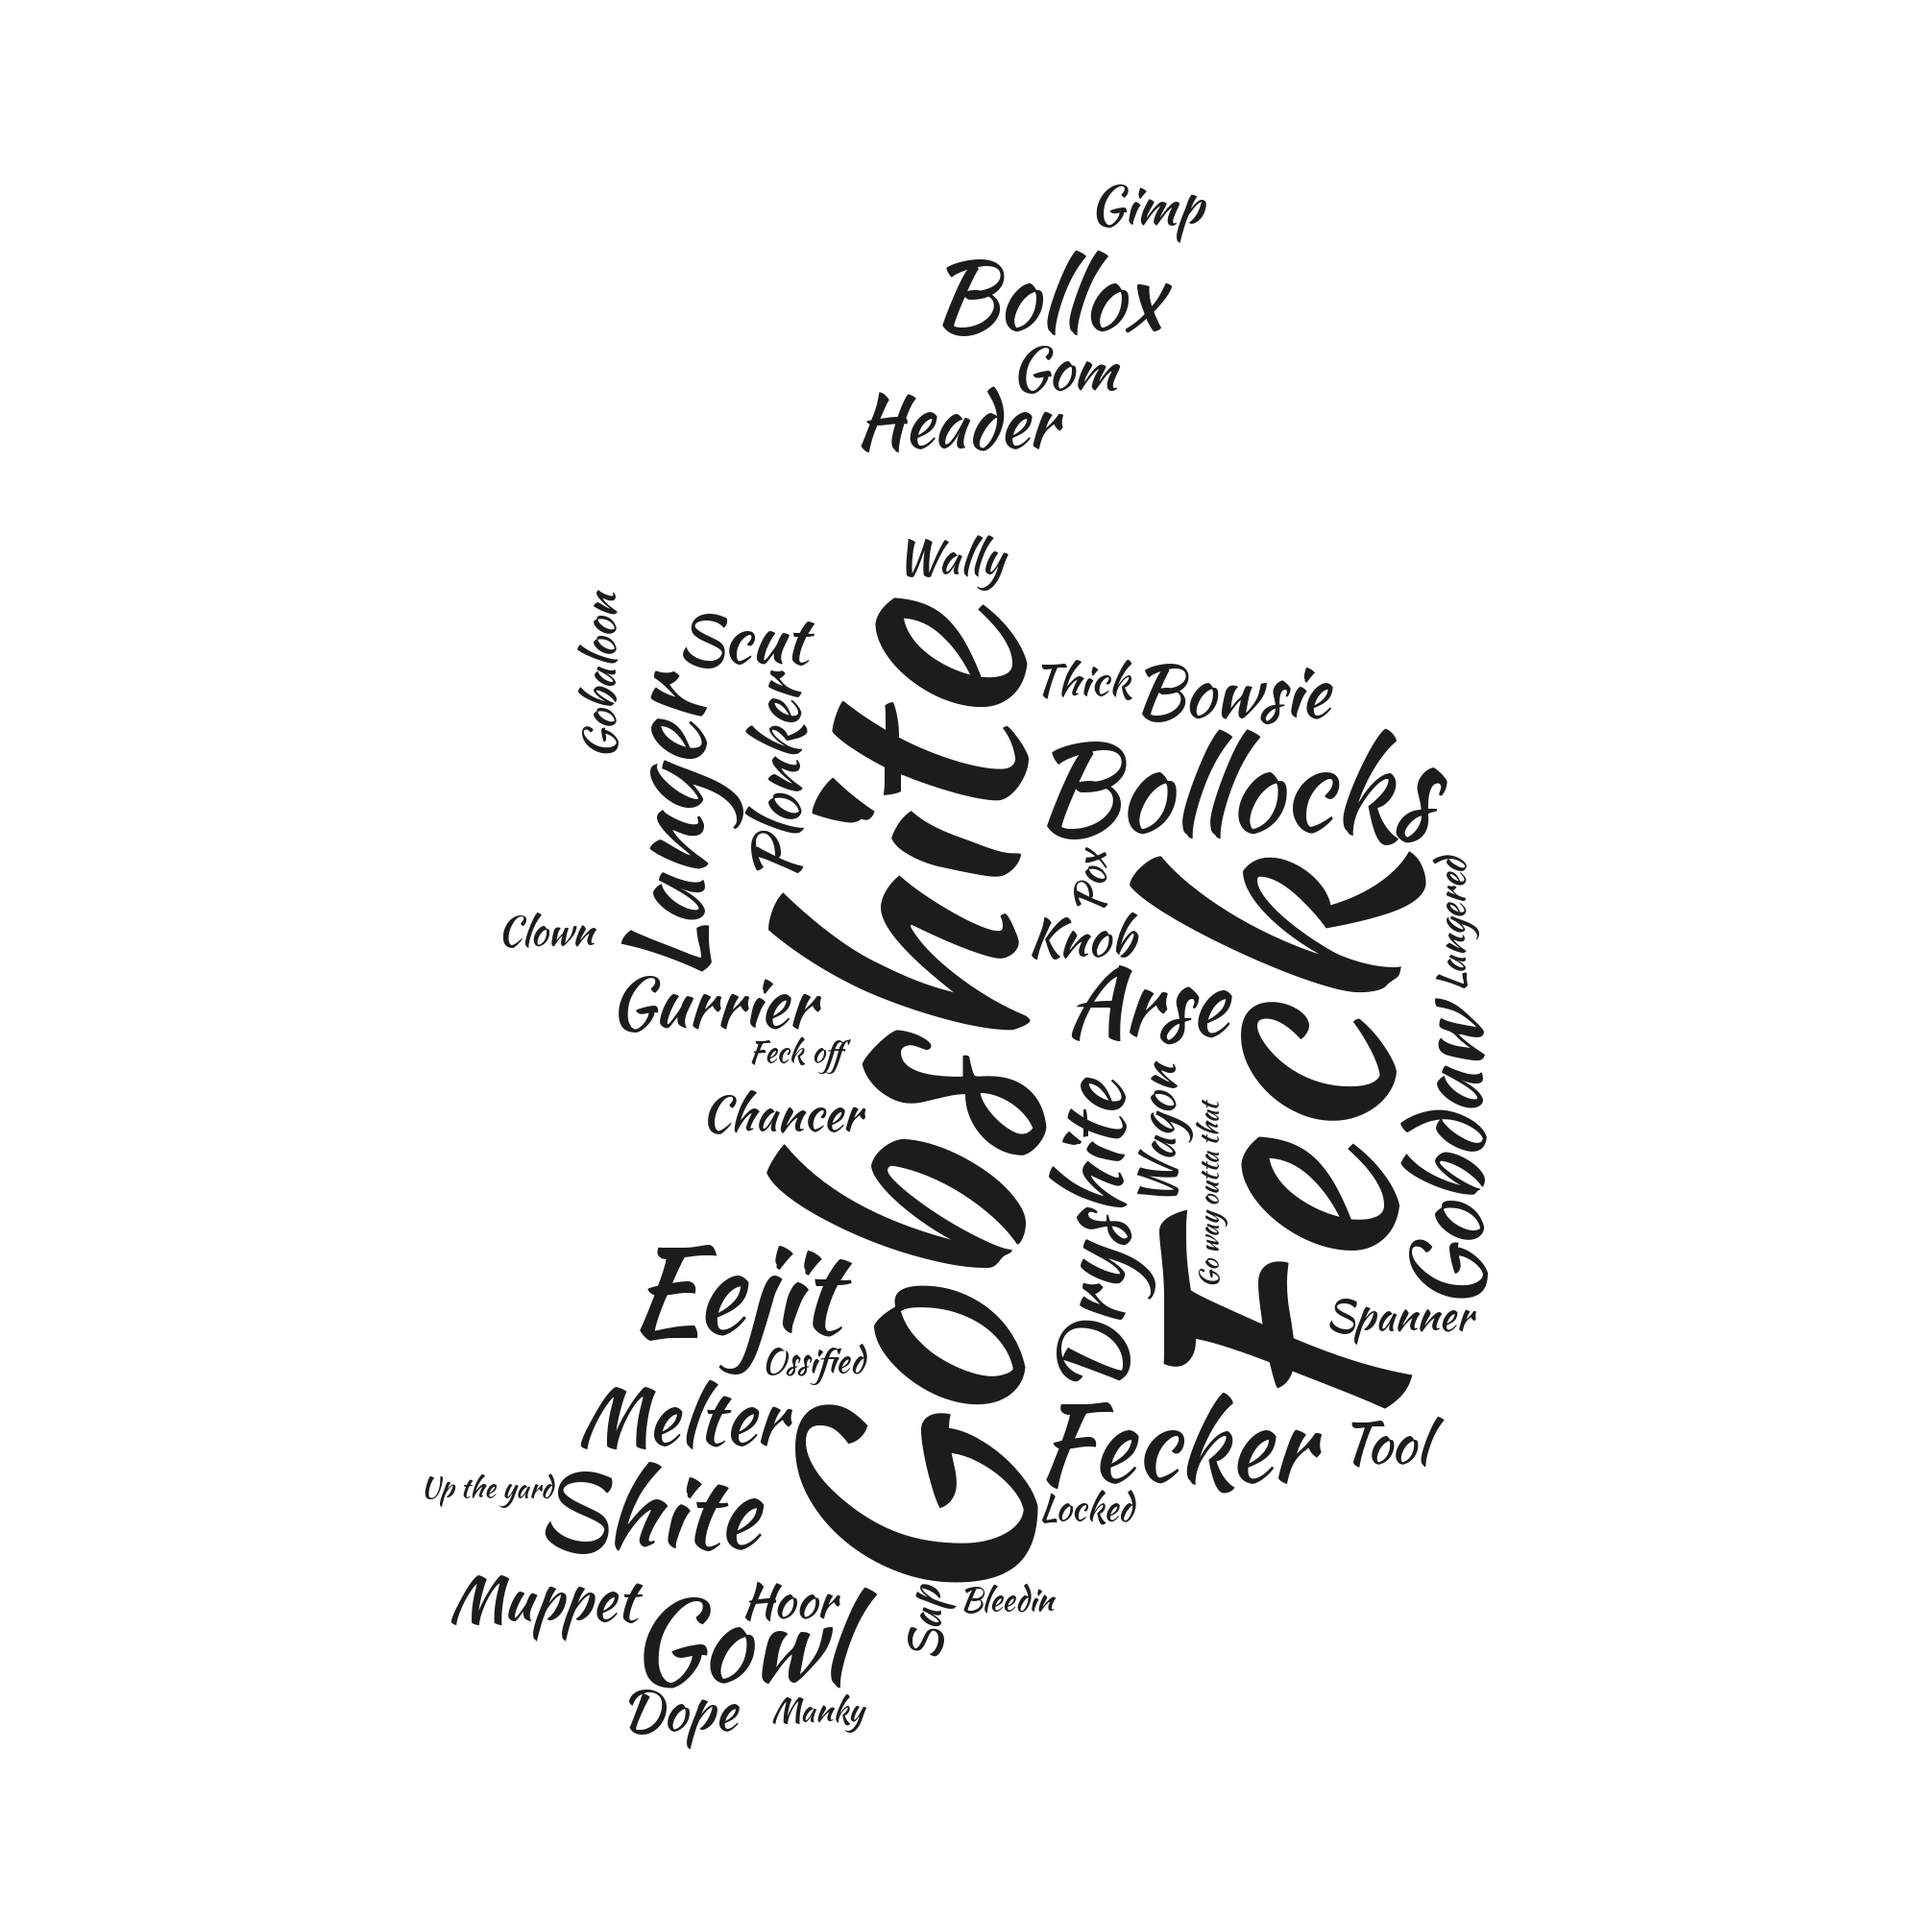
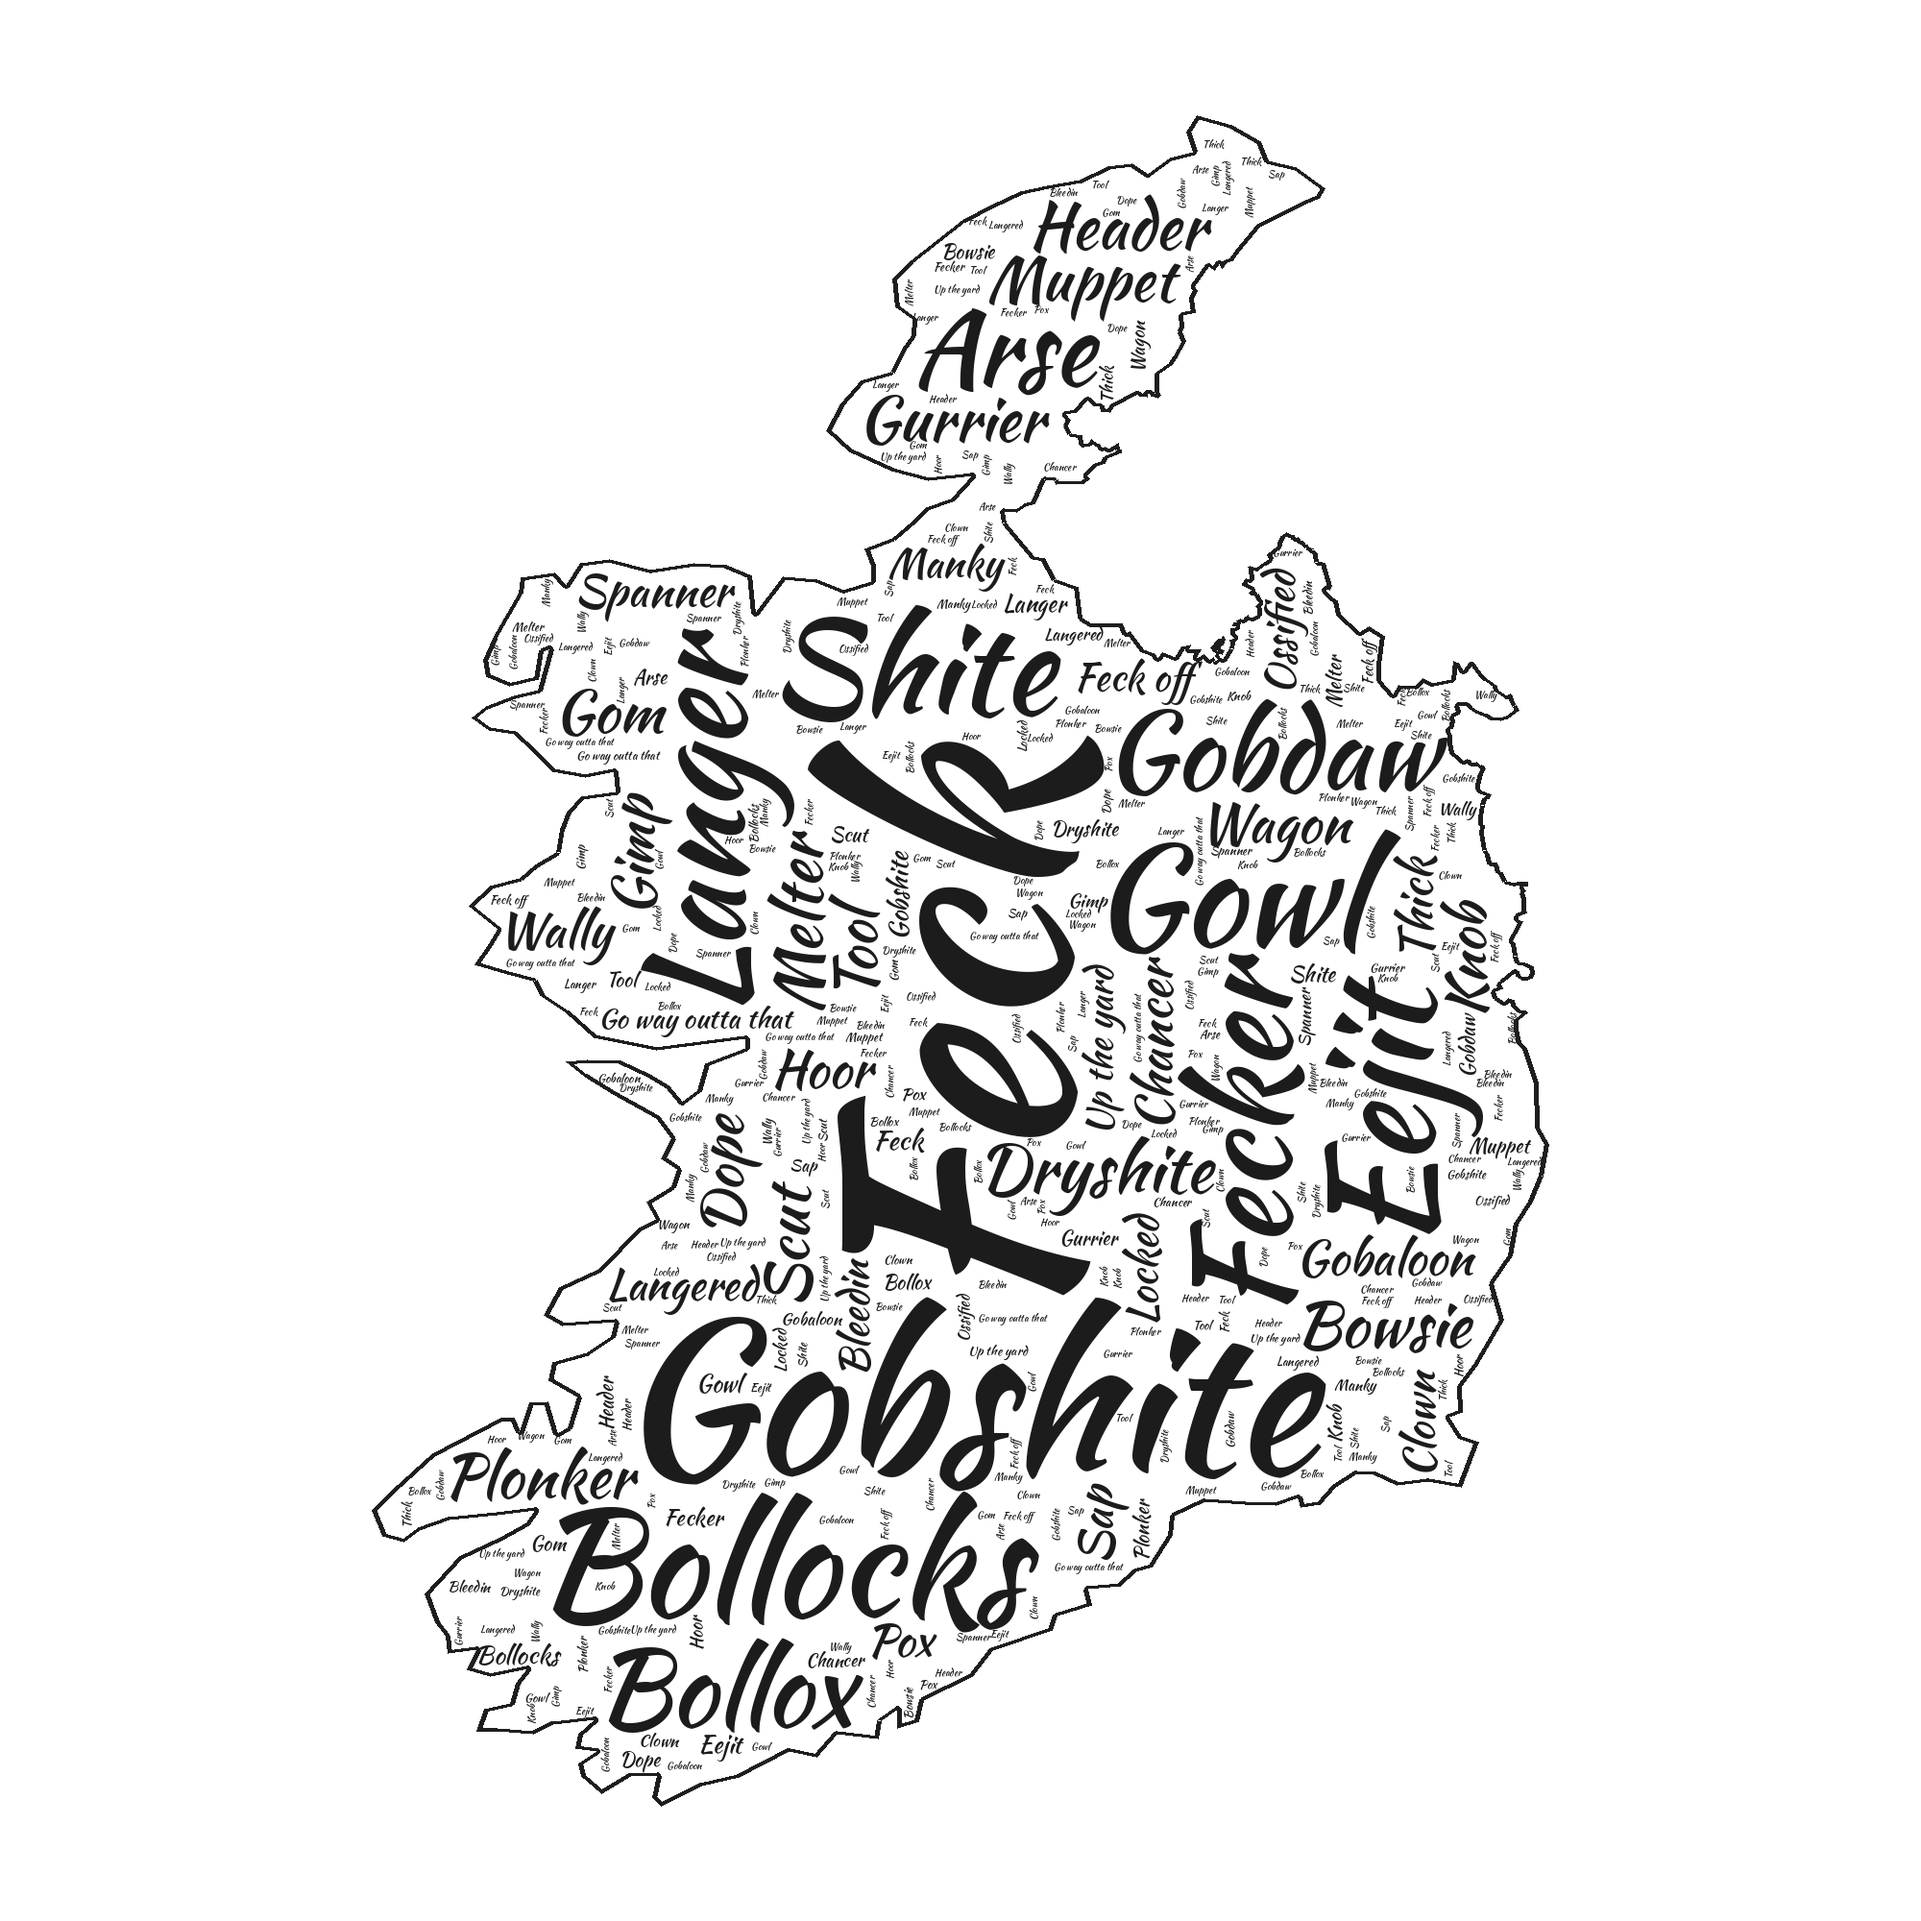
feat(country): pays rempli blanc + frontières délimitées + densité h/v
- fond blanc rempli sur le pays, transparent autour, bordure de délimitation
  des frontières (rognée à l'intérieur : rien ne dépasse)
- couleurs réparties drapeau (gauche/milieu/droite) ; bande blanche = mots
  quasi-blancs fondus dans le fond blanc
- mots horizontaux ET verticaux (prefer_horizontal 0.6)
- remplissage dense (repeat) pour combler la forme comme une vraie word-cloud
- Irlande : 4 variantes régénérées (slang/gros mots × coloré/n&b)

Claude-Session: https://claude.ai/code/session_011hU6yuR4dGRtyXL7mZFdwg

Changed region(s): [[0.186, 0.062, 0.806, 0.93]]

diff --git a/scripts/gen_wordcloud.py b/scripts/gen_wordcloud.py
@@ -34,7 +34,7 @@ import os
 import sys
 
 import numpy as np
-from PIL import Image, ImageColor, ImageDraw
+from PIL import Image, ImageChops, ImageColor, ImageDraw
 
 WHITE = 255  # wordcloud remplit là où le masque n'est PAS blanc
 
@@ -240,18 +240,18 @@ def make_color_func(mode, words):
 # type "hbands" : bandes horizontales (couleur selon position Y)
 # type "palette": drapeau complexe -> couleurs cyclées (non positionnel)
 FLAGS = {
-    # bande « blanche » des drapeaux -> gris clair (205) pour rester visible
-    # sous un liseré blanc de sticker
-    "ireland":     {"type": "vbands", "colors": [(22, 155, 98), (205, 205, 205), (255, 136, 62)]},
-    "italy":       {"type": "vbands", "colors": [(0, 140, 69), (205, 205, 205), (205, 33, 42)]},
-    "france":      {"type": "vbands", "colors": [(0, 85, 164), (205, 205, 205), (239, 65, 53)]},
-    "mexico":      {"type": "vbands", "colors": [(0, 104, 71), (205, 205, 205), (206, 17, 38)]},
-    "canada":      {"type": "vbands", "colors": [(213, 43, 30), (205, 205, 205), (213, 43, 30)]},
+    # bande « blanche » = blanc pur : sur le fond blanc du pays, ces mots se
+    # fondent et forment naturellement la bande blanche du drapeau
+    "ireland":     {"type": "vbands", "colors": [(22, 155, 98), (220, 220, 220), (255, 136, 62)]},
+    "italy":       {"type": "vbands", "colors": [(0, 140, 69), (220, 220, 220), (205, 33, 42)]},
+    "france":      {"type": "vbands", "colors": [(0, 85, 164), (220, 220, 220), (239, 65, 53)]},
+    "mexico":      {"type": "vbands", "colors": [(0, 104, 71), (220, 220, 220), (206, 17, 38)]},
+    "canada":      {"type": "vbands", "colors": [(213, 43, 30), (220, 220, 220), (213, 43, 30)]},
     "germany":     {"type": "hbands", "colors": [(30, 30, 30), (221, 0, 0), (255, 206, 0)]},
-    "usa":         {"type": "palette", "colors": [(178, 34, 52), (205, 205, 205), (60, 59, 110)]},
-    "new_zealand": {"type": "palette", "colors": [(0, 36, 125), (204, 20, 43), (205, 205, 205)]},
+    "usa":         {"type": "palette", "colors": [(178, 34, 52), (60, 59, 110), (178, 34, 52)]},
+    "new_zealand": {"type": "palette", "colors": [(0, 36, 125), (204, 20, 43), (0, 36, 125)]},
     "jamaica":     {"type": "palette", "colors": [(0, 155, 58), (254, 209, 0), (30, 30, 30)]},
-    "australia":   {"type": "palette", "colors": [(0, 36, 125), (204, 20, 43), (205, 205, 205)]},
+    "australia":   {"type": "palette", "colors": [(0, 36, 125), (204, 20, 43), (0, 36, 125)]},
 }
 
 
@@ -305,7 +305,8 @@ def words_from_report(path, niche_substr):
     return freq
 
 
-def make_cloud(freq, mask, font_path, color_func):
+def make_cloud(freq, mask, font_path, color_func, prefer_horizontal=0.92,
+               dense=False):
     from wordcloud import WordCloud
     words = list(freq.keys())
     wc = WordCloud(
@@ -313,14 +314,34 @@ def make_cloud(freq, mask, font_path, color_func):
         mask=mask,
         mode="RGBA",
         background_color=None,     # fond transparent
-        max_words=len(words) + 5,
-        relative_scaling=0.5,
-        prefer_horizontal=0.92,
-        margin=2,
+        max_words=400 if dense else len(words) + 5,
+        relative_scaling=0.35 if dense else 0.5,
+        prefer_horizontal=prefer_horizontal,  # <1 = mélange horizontal/vertical
+        repeat=dense,              # répète les mots pour remplir densément la forme
+        min_font_size=6,
+        margin=1 if dense else 2,
         color_func=color_func,
     )
     wc.generate_from_frequencies(freq)
     return wc.to_image()  # RGBA
+
+
+def silhouette_alpha(mask):
+    """Alpha L : 255 dans le pays (mask sombre), 0 autour."""
+    return Image.fromarray(np.where(mask < 128, 255, 0).astype(np.uint8), "L")
+
+
+def country_border_inner(polys, sil, size, width, color):
+    """Bordure de délimitation tracée le long des frontières, rognée à
+    l'intérieur de la silhouette (rien ne dépasse)."""
+    layer = Image.new("RGBA", (size, size), (0, 0, 0, 0))
+    d = ImageDraw.Draw(layer)
+    for r in polys:
+        ring = [(int(x), int(y)) for x, y in r]
+        d.line(ring + [ring[0]], fill=color, width=width, joint="curve")
+    a = ImageChops.multiply(layer.split()[3], sil)
+    layer.putalpha(a)
+    return layer
 
 
 # ---------------------------------------------------------------- main
@@ -343,6 +364,12 @@ def main():
                     help="liseré sticker autour des mots (0 = aucun)")
     ap.add_argument("--outline-color", default="#ffffff", help="couleur du liseré des mots")
     ap.add_argument("--contour-color", default="#ffffff", help="couleur du contour du pays")
+    ap.add_argument("--fill", default="", help="couleur de remplissage du pays (ex. #ffffff)")
+    ap.add_argument("--border", type=int, default=0,
+                    help="épaisseur de la bordure de délimitation des frontières")
+    ap.add_argument("--border-color", default="#1e1e1e", help="couleur de la bordure")
+    ap.add_argument("--prefer-horizontal", type=float, default=0.92,
+                    help="proportion de mots horizontaux (1=tous, 0.55=mélange h/v)")
     args = ap.parse_args()
 
     if args.freq_file:
@@ -382,12 +409,36 @@ def main():
     else:
         color_func = make_color_func(args.colors, list(freq.keys()))
 
-    img = make_cloud(freq, mask, font, color_func)
+    img = make_cloud(freq, mask, font, color_func,
+                     prefer_horizontal=args.prefer_horizontal,
+                     dense=(polys is not None))
+
+    # remplissage du pays (fond blanc) DERRIÈRE les mots
+    if args.fill and polys is not None:
+        sil = silhouette_alpha(mask)
+        base = Image.new("RGBA", img.size, ImageColor.getrgb(args.fill) + (255,))
+        base.putalpha(sil)
+        img = Image.alpha_composite(base, img)
 
     if args.word_outline > 0:
         img = add_word_outline(img, width=args.word_outline,
                                color=ImageColor.getrgb(args.outline_color))
-    if args.contour > 0 and polys:
+
+    # rien qui dépasse : on rogne tout à la silhouette du pays
+    if polys is not None:
+        sil = silhouette_alpha(mask)
+        r, g, b, a = img.split()
+        img = Image.merge("RGBA", (r, g, b, ImageChops.multiply(a, sil)))
+
+    # bordure de délimitation des frontières (rognée à l'intérieur)
+    if args.border > 0 and polys is not None:
+        sil = silhouette_alpha(mask)
+        border = country_border_inner(polys, sil, csize, args.border,
+                                      ImageColor.getrgb(args.border_color) + (255,))
+        img = Image.alpha_composite(img, border)
+
+    # ancien contour blanc (sticker) — conservé si demandé explicitement
+    if args.contour > 0 and polys is not None:
         contour = country_contour(polys, csize, width=args.contour,
                                   color=ImageColor.getrgb(args.contour_color) + (255,))
         img = Image.alpha_composite(contour, img)
@@ -400,8 +451,10 @@ def main():
 
     if args.sheet:
         os.makedirs(os.path.dirname(args.sheet) or ".", exist_ok=True)
-        # fond gris moyen si sticker/contour (voir blanc ET noir), clair sinon
-        tone = (128, 130, 134) if (args.contour > 0 or args.colors in ("flag", "bw")) else (235, 235, 235)
+        # fond coloré si pays (voir le blanc rempli + le détourage), clair sinon
+        is_country = (args.contour > 0 or args.border > 0 or bool(args.fill)
+                      or args.colors in ("flag", "bw"))
+        tone = (90, 120, 150) if is_country else (235, 235, 235)
         bg = Image.new("RGB", img.size, tone)
         bg.paste(img, (0, 0), img)
         bg.save(args.sheet, quality=90)
